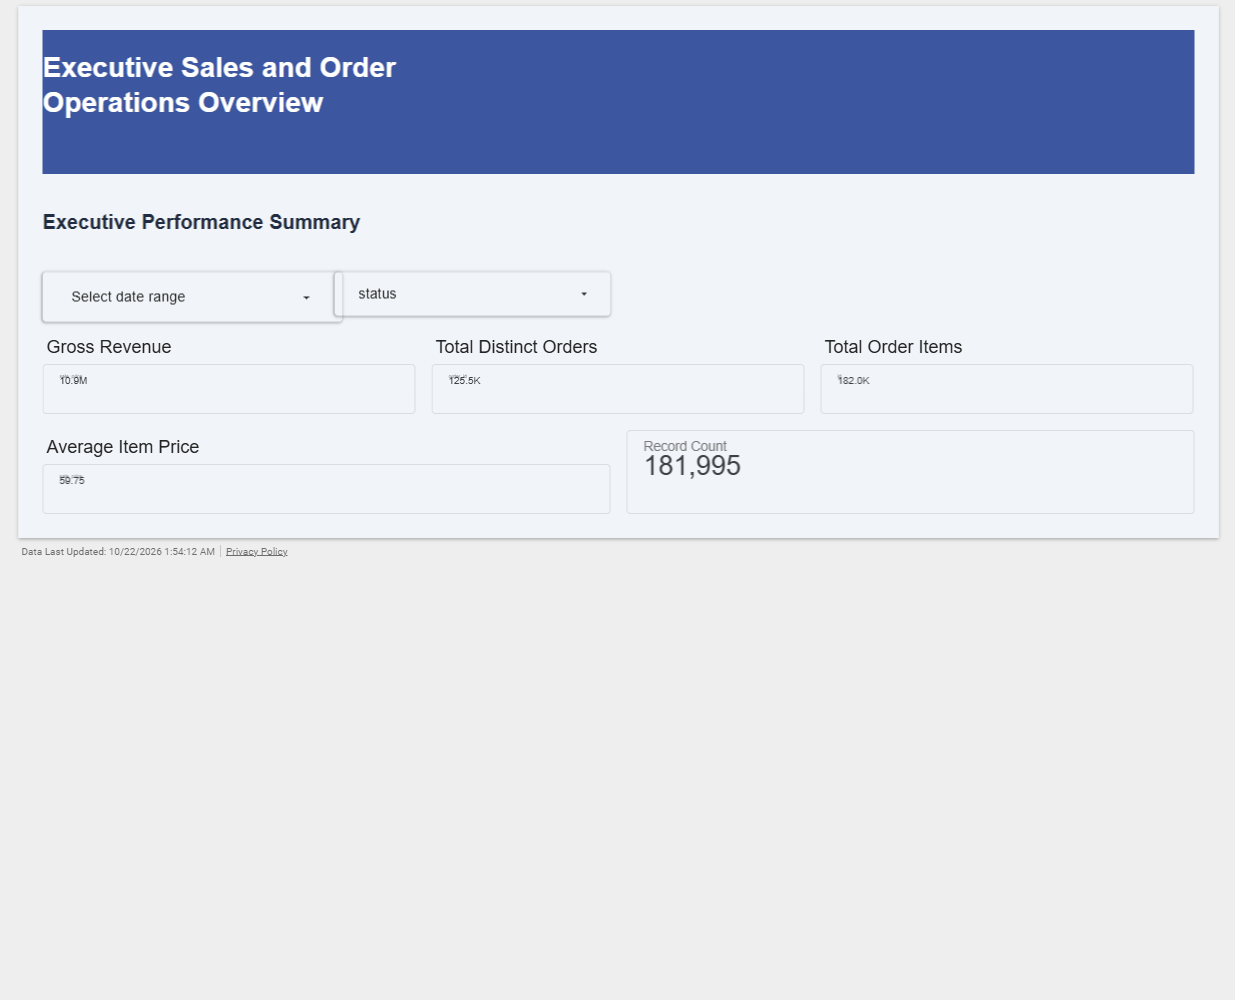
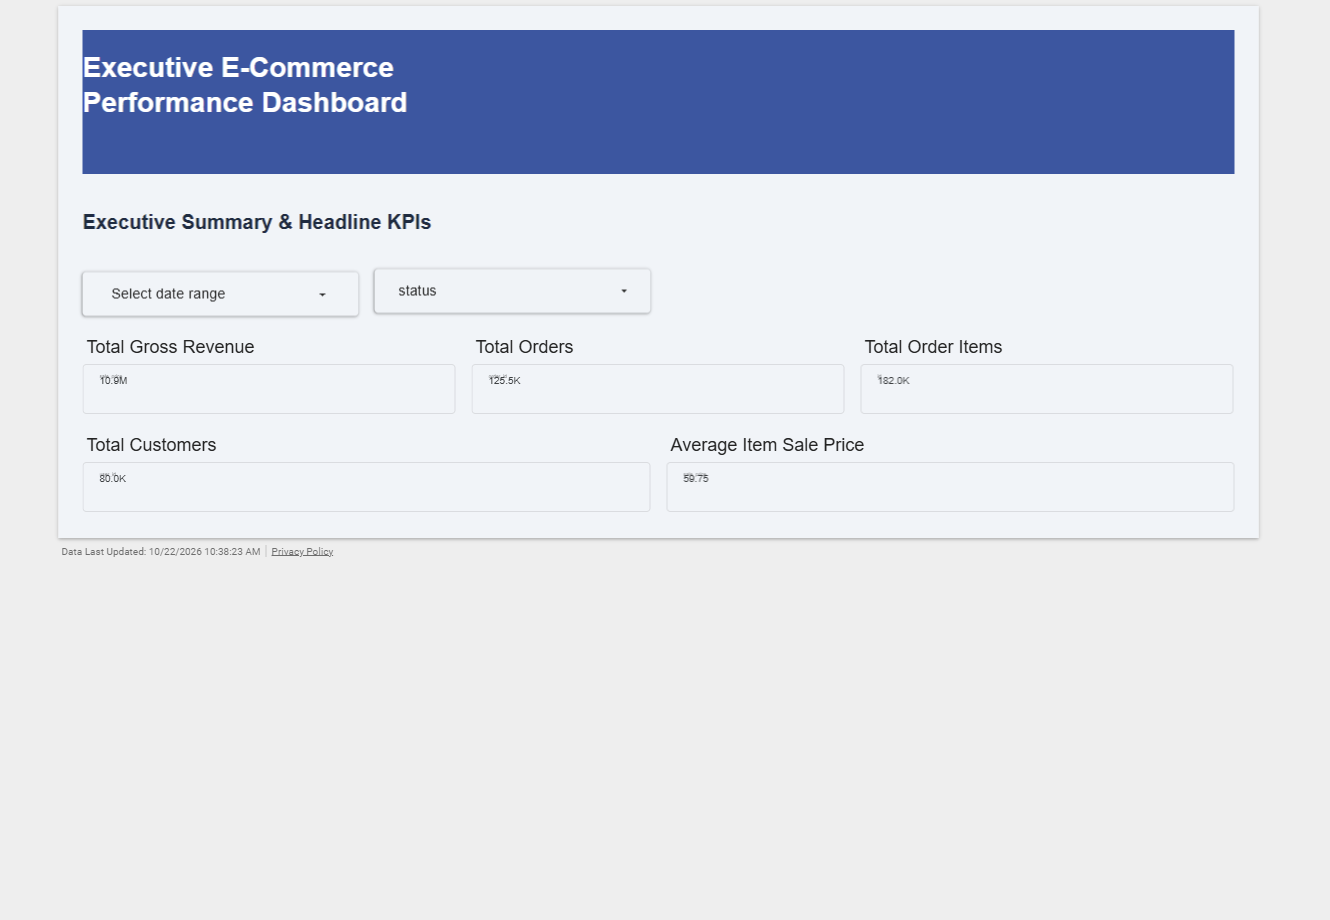
task 2.4: Manual acceptance: CSV, research, BigQuery and GCS

Changed region(s): [[0.0308, 0.0304, 0.9846, 0.6087], [0.3385, 0.3348, 0.4923, 0.4261], [0.6462, 0.3348, 0.7692, 0.3957]]

diff --git a/docs/acceptance.md b/docs/acceptance.md
@@ -12,12 +12,15 @@ watched.
 | # | Date | Source | Input | Build id | Last stage | Report link | Checked | Verdict |
 |---|---|---|---|---|---|---|---|---|
 | 1 | 2026-10-22 | CSV upload | `samples/ecommerce_sales.csv` (2,000 rows) | b_ced0f5b4c491 | done (50/50 ops ok) | https://datastudio.google.com/reporting/8974f3ff-9a65-4aea-8520-3be0a6741aef | Total Revenue 436.6K = CSV revenue sum 436,628.79; orders 2.0K = 2,000; units 6.9K = 6,924; report opens with 4 pages | PASS |
-| 2 | 2026-10-22 | Research mode | Prompt: "Nominal GDP of the ASEAN member countries, latest year, in US dollars" | b_568901c19819 | done, partial (35 ok, 6 failed) | https://datastudio.google.com/reporting/9e1d97e1-8435-48ad-b1f2-0a72fe5f4133 | Sources file `data/builds/b_568901c19819/v1/docs/sources.md` (Wikipedia "List of ASEAN countries by GDP", 12 rows). Nominal GDP 8.3M = sum of all 12 rows (8,339,090) incl. the "ASEAN" total row; members only 4,171,400; member count 12 vs 11; scorecard titles garbled. 3 tables: `add_chart` failed "Data Studio option 15 is unavailable" (`rows_per_page: 15`) | FAIL |
-| 3 | 2026-10-22 | BigQuery table | `bigquery-public-data.thelook_ecommerce.order_items` (US, 181,995 rows), picked in Connect | b_b17ad783d730 | done, partial (42 ok, 3 failed) | https://datastudio.google.com/reporting/71856657-dbd2-4d0c-ac00-0439b06be136 | Direct query: gross 10,873,982.05 / orders 125,470 / items 181,995 / avg price 59.75, all match the report (10.9M, 125.5K, 182.0K, 59.75). Failed: "Active Customers" scorecard "field user_id not in data source" (the view has `user_id`; a default "Record Count" scorecard is left in its place); p1 date control "control box did not match the requested position and size" | FAIL |
+| 2 | 2026-10-22 | Research mode | Prompt: "Nominal GDP of the ASEAN member countries, latest year, in US dollars" | b_ca4845ae0e0b | done (45/45 ops ok) | https://datastudio.google.com/reporting/99e01bfb-2a28-44bd-b3b2-2951bfab9685 | Sources file `data/builds/b_ca4845ae0e0b/v1/docs/sources.md` (Wikipedia "List of ASEAN countries by GDP"; the "ASEAN" aggregate row left out, 11 rows). Total GDP (PPP) 13.3M = CSV sum 13,256,570; population 700.0 = 700.025; Reporting Countries 11; nominal GDP pie Indonesia 34.5% = 1,440,000 / 4,171,400. Scorecard titles clean; tables `rows_per_page` 15 applied as 10 | PASS (user: scorecard text size needs an audit; background images look low-definition, maybe render the HTML background to an HD PNG) |
+| 3 | 2026-10-22 | BigQuery table | `bigquery-public-data.thelook_ecommerce.order_items` (US, 181,995 rows), picked in Connect | b_a8ace098d03b | done (52/52 ops ok) | https://datastudio.google.com/reporting/fa9cf040-9e02-4a90-bfac-05620ac5c1a1 | Direct query: gross 10,873,982.05 / orders 125,470 / items 181,995 / distinct users 80,028 / avg price 59.75, all match the report (10.9M, 125.5K, 182.0K, Total Customers 80.0K, 59.75); p1 date range control beside the status dropdown, no overlap | PASS |
 | 4 | 2026-10-22 | CSV in GCS | `gs://$GCS_BUCKET/samples/ecommerce_sales.csv` (copy of row 1's file), picked in Connect (source kind `gcs`) | b_9ec14b32752e | done (48/48 ops ok) | https://datastudio.google.com/reporting/a55f3bc4-5a3b-4f6f-909f-a166743efce5 | Total Revenue 436.6K = 436,628.79; orders 2.0K = 2,000; units 6.9K = 6,924 | PASS |
 
-Seen on every report (user accepted rows 1 and 4 with them): page 1 is named "Untitled Page";
-scorecard values render in a tiny font at the box's top-left.
+Rows 2 and 3 are the reruns of 2026-10-22 after engine 10.1 and backend 17.1 (the first runs,
+b_568901c19819 and b_b17ad783d730, failed: aggregate row counted, table rows-per-page, `user_id`
+field lookup, date control box). Builder observation on every report: page 1 is named "Untitled
+Page" and scorecard values render in a tiny font at the box's top-left (the user passed rows 1 and 4
+with them; on row 2 the user flagged the scorecard text size and low-definition backgrounds).
 
 Screenshots (page 1, cropped to the canvas): `docs/img/acceptance-2.4-csv.png`,
 `docs/img/acceptance-2.4-research.png`, `docs/img/acceptance-2.4-bigquery.png`,

diff --git a/docs/progress.md b/docs/progress.md
@@ -387,3 +387,15 @@ context. Task status lives in docs/plan.md, not here.
 - Checks: root Test (all), `uv run --project integration python integration/check_contracts.py`: PASS, all 9 checks (the 13-check extension remains in the unapplied 2.5 stash). Backend stamp completed; backend/release lint: 0 errors; program: 0 problems; git diff --check passed. Existing plan-size/older Spec and root AGENTS length warnings remain advisory. Backend product tests and live acceptance not run: implementation is pending.
 - Left open: existing 2.5 hosted-allowlist runner concern remains for release 4.3; no additional task or acceptance waiver. Stash drops remain user cleanup. No new STOP or unverified dependency.
 - Next: open backend/ for builder 17.1, then 18.1 and 18.2. Return to the root for 2.5's full live acceptance and user comparison card; 4.3 repeats the same standard on the hosted service.
+
+## 2026-10-22: Task 2.4 Manual acceptance: CSV, research, BigQuery and GCS
+- Status: done
+- Plan check: off
+- What changed: docs/acceptance.md rows 2 (research, b_ca4845ae0e0b) and 3 (BigQuery, b_a8ace098d03b) rerun after engine 10.1 / backend 17.1, both PASS (user card); docs/img/acceptance-2.4-{research,bigquery}.png replaced (page 1, cropped). AGENTS.md: 2 gotchas.
+- Checks: row 2 run ok 45/45, row 3 ok 52/52; values match source (research PPP 13.3M = 13,256,570, 11 countries; BQ 10.9M/125.5K/182.0K/80.0K users/59.75 = direct query); user verdicts PASS, PASS; `check_contracts.py` PASS (9/9).
+- Decisions: same inputs as the first runs, default outline/design, no prototype comments. Row 2 build title typed twice by a browser misfire (no rename endpoint; cosmetic, the report title comes from Context). Rows 1 and 4 stand.
+- Digest: docs/acceptance.md: 4 rows PASS (csv b_ced0f5b4c491, research b_ca4845ae0e0b, bigquery b_a8ace098d03b, gcs b_9ec14b32752e) with Data Studio links; docs/img/acceptance-2.4-{csv,research,bigquery,gcs}.png for README.
+- Tried and failed: first Build click silently did nothing (engine Chrome not running); see AGENTS.md.
+- Gotchas: in AGENTS.md.
+- Left open: P2 scorecard values tiny at box top-left (engine/backend, user flagged); P2 background PNGs low-definition, user suggests rendering the HTML background as HD PNG (backend); P2 page 1 "Untitled Page" (engine).
+- Next: Task 2.5 (reference, refusal and synthetic e2e, local), per its stash-resume note.

diff --git a/AGENTS.md b/AGENTS.md
@@ -78,3 +78,5 @@ Traps that cost an earlier session time and that the other docs don't cover, one
 - `GET /api/builds/<id>/files/events.jsonl` serves the current version's engine events: read `run_finished` (`status`, `failed`) over the API instead of the data/ folder (needed before a New version replaces "current").
 - Backend sets `prototype_stale` for good after a reference change, an outline Other on a built version or a `feasibility/check` under a narrowed `DSS_ALLOWED_TYPES`: that version's recipe/run stay `409 feasibility_blocked` even after a replan (2026-10-22); do those steps last, on throwaway builds.
 - `e2e_references.py` live runs: rerun only the failed cases with `--cases a,b` (the bench merges per case); `--after-restart` needs a passed synthetic case in the bench.
+- Build view "Build in Data Studio" does nothing while the engine reads "Chrome not running": click "Sign in to Google" there first (opens the engine profile, already signed in); after navigating away the view forgets the recipe, so Generate recipe again.
+- Built-in browser on the New build dialog: coordinate clicks/typing misfire (wrong frame, text typed twice); set the title with form_input and pick radios/buttons with a JS `.click()` (form_input on a radio doesn't update React state).

diff --git a/docs/plan.md b/docs/plan.md
@@ -61,7 +61,7 @@ Sizes: S small, M a normal session, L needs a whole fresh session (never run una
   - If: frontend 6.1 and backend 10.1 are done -> the UI walkthrough also checks that the activity strip shows a phrase, the elapsed time and a growing token count during the blueprint run, and its checklist ends all ticked; otherwise skip this (it is first in the cut order).
   - If: the live engine run fails again with `report_url: null` -> diagnose it with the screencast gotcha (AGENTS.md) and block naming the part (engine or backend), the op and the last frame; never retry past one rerun.
   - Review focus: contracts/api.md 2.0 staged endpoints; the driver never edits a part's files.
-- [ ] 2.4 Manual acceptance: CSV, research, BigQuery and GCS
+- [x] 2.4 Manual acceptance: CSV, research, BigQuery and GCS
   - Goal: before anything is published, the user builds one real dashboard per data source through the local UI; the builder prepares the inputs, starts the app and records each result.
   - Files: docs/acceptance.md, docs/img/*.png
   - Depends on: 2.3
